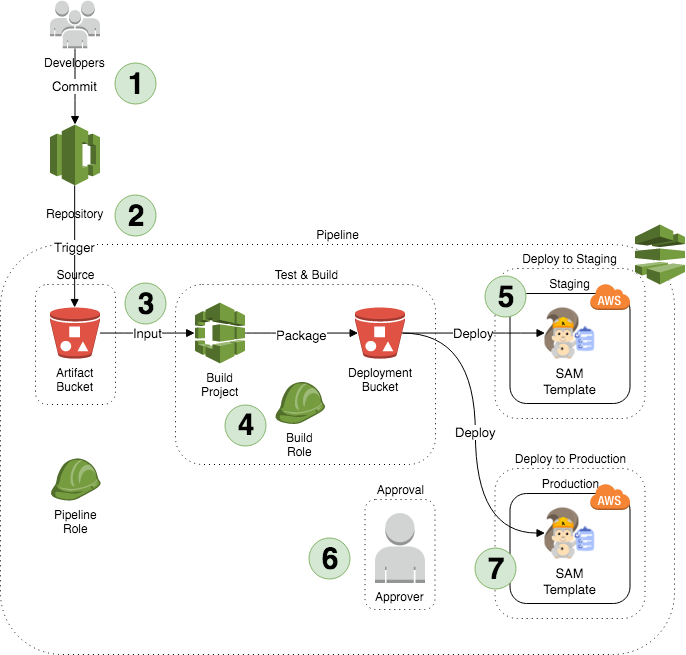
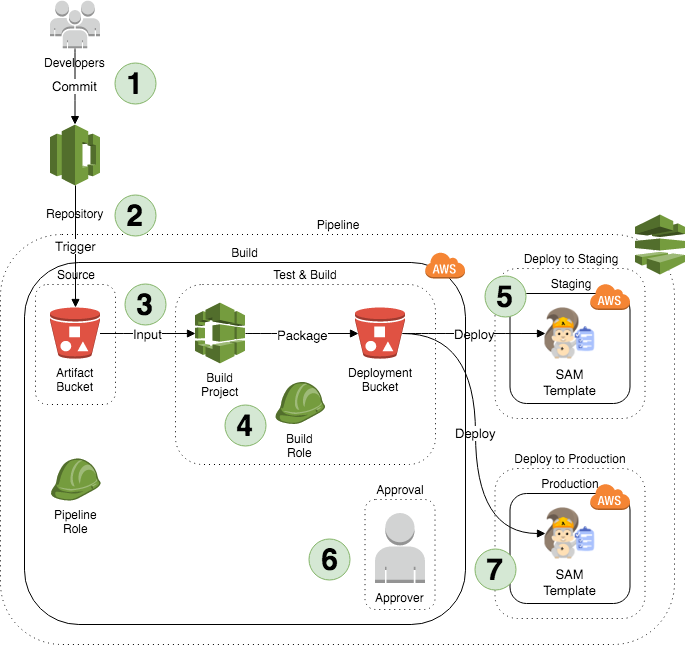
Update docs and diagram.

diff --git a/README.md b/README.md
@@ -78,9 +78,11 @@ This high-level diagram represents the resources that are created by the
    `buildspec.yaml`)
 1. Build artefacts are packaged and stored for deployment in S3 using `aws
    cloudformation package`
-1. The application is automatically deployed to the staging environment
-1. The change must be manually approved
-1. The same packages are used to deploy the application to production
+1. The change set is automatically deployed to the staging environment stack
+1. The change must be manually approved before anything is deployed to
+   production
+1. The change set is applied to the production stack, and must then be approved
+   *again* before it is deployed
 
 ### Deploy Account
 
@@ -101,15 +103,15 @@ The following resources are created and referenced in the deploy accounts:
 
 ## To Do
 
-* GitHub.com PRIVATE repo - confirm location of checkout
-* Cross-account deployment
-* Run in local CodeBuild container
+* Support GitHub.com repo (public and/or private)
+* Verify cross-account deployment
 * Set parameters in application stack
 
 ### Later
 
 * `sam-local`
 * S3 SSE using KMS.
+* Run in local CodeBuild container
 * Split in to layers? e.g. IAM, buckets, etc
 * Deploy notification e.g. Slack, email, etc
 * Tags via Template Configuration file
